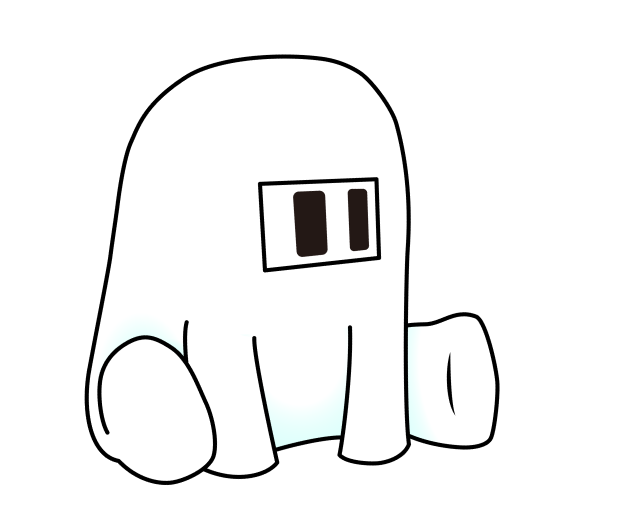
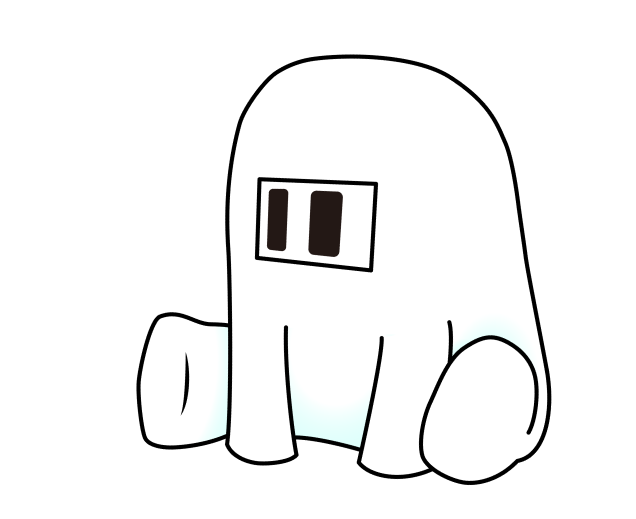
0505_進捗

diff --git a/public/css/object/project/project.css b/public/css/object/project/project.css
@@ -67,10 +67,6 @@
     margin-top: 4px;
 }
 
-.p-nav-open .p-menu span {
-    background-color: black;
-}
-
 .p-nav-open .p-menu span:nth-child(1) {
     -webkit-transform: translateY(10px) rotate(-315deg);
     transform: translateY(10px) rotate(-315deg);
@@ -269,8 +265,8 @@
 
 /* 国名一覧メニュー */
 .p-country-list-button {
-    display: inline-block;
-    margin: 100px 50% 0 50%;
+    display: flex;
+    justify-content: center;
     position: relative;
     padding: 10px 0;
 }
@@ -581,9 +577,8 @@
 .p-new-post {
     padding: 1.5% 0;
     background-color: #011627;
-    width: 100%;
-    height: auto;
     max-width: none;
+    width: 100vw;
 }
 
 .p-new-post-heading {
@@ -864,7 +859,12 @@
     margin-top: 100px;
 }
 
-.p-more-for-style {
+.p-more-for-style--right {
+    position: relative;
+    z-index: 1;
+}
+
+.p-more-for-style--left {
     position: relative;
     z-index: 0;
 }
@@ -914,7 +914,7 @@
 
 .p-more-icon {
     width: 100px;
-    height: 95px;
+    height: 100px;
     padding: 20px;
     border-radius: 50%;
     background: white;
@@ -989,7 +989,7 @@
     background-position: 0 0, 15px 15px;
     position: relative;
     z-index: 0;
-    transform: translateX(-50%) scale(-1, 1);
+    transform: translateX(-40%) scale(-1, 1);
     margin-top: -35px;
 }
 
@@ -1003,7 +1003,7 @@
     top: 15px;
     left: 0;
     z-index: -1;
-    transform: translateX(-50%) scale(-1, 1);
+    transform: translateX(-40%) scale(-1, 1);
 }
 
 @-webkit-keyframes ibou {
@@ -1035,14 +1035,13 @@
 }
 
 .ibou {
-    display: none;
     -webkit-animation: ibou 3s infinite linear alternate;
     animation: ibou 3s infinite linear alternate;
-    position: relative;
-    z-index: 2;
+    position: absolute;
+    z-index: 99;
     width: 30%;
-    right: 30%;
-    top: 10em;
+    bottom: 50px;
+    left: 350px;
 }
 
 

diff --git a/public/js/script.js b/public/js/script.js
@@ -890,27 +890,31 @@ $("#vmap").on("DOMSubtreeModified propertychange", function () {
 
 
 // バーガーメニュー
-$(document).ready(function () {
-  let $nav = $(".p-nav-area");
-  let $btn = $(".p-menu");
-  let $mask = $("#mask");
-  let open = "p-nav-open";
+document.addEventListener("DOMContentLoaded", () => {
+  const nav = document.querySelector(".p-nav-area");
+  const btn = document.querySelector(".p-menu");
+  const mask = document.getElementById("mask");
+  const links = document.querySelectorAll("#navArea a");
+  const openClass = "p-nav-open";
 
-  // menu open close
-  $btn.on("click", function () {
-    if (!$nav.hasClass(open)) {
-      $nav.addClass(open);
-    } else {
-      $nav.removeClass(open);
-    }
+  // メニューの開閉
+  btn.addEventListener("click", () => {
+    nav.classList.toggle(openClass);
+    btn.classList.toggle(openClass);
   });
 
-  // mask close
-  $mask.on("click", function () {
-    $nav.removeClass(open);
-  });
-  $('#navArea a').on('click', function () {
-    $nav.removeClass(open);
+  // マスククリックで閉じる
+  if (mask) {
+    mask.addEventListener("click", () => {
+      nav.classList.remove(openClass);
+    });
+  }
+
+  // ナビリンククリックで閉じる
+  links.forEach(link => {
+    link.addEventListener("click", () => {
+      nav.classList.remove(openClass);
+    });
   });
 });
 

diff --git a/public/top.html b/public/top.html
@@ -41,7 +41,7 @@
         </a>
       </div>
 
-      <!-- <nav class="p-nav-area">
+      <nav class="p-nav-area">
         <div class="p-nav-area__inner">
           <ul>
             <li class="p-nav-area__illust">
@@ -65,7 +65,7 @@
             </li>
           </ul>
         </div>
-      </nav> -->
+      </nav>
 
       <!-- ハンバーガーメニュー -->
       <div class="p-menu">
@@ -83,7 +83,7 @@
     <!--//ここからコンテンツ-->
 
     <!-- 国名一覧メニュー -->
-    <div class="p-country-list-button">
+    <div class="p-country-list-button u-mt-100">
       <div class="p-country-list-button--red"></div>
       <div class="p-country-list-button--white"></div>
     </div>
@@ -462,7 +462,7 @@
         </div>
 
         <div class="p-more-content">
-          <div class="p-more-for-style">
+          <div class="p-more-for-style--right">
             <div class="p-more-content__right">
               <div class="p-more-wrapper">
                 <div class="p-more-icon">
@@ -493,7 +493,7 @@
             <div class="p-more-content__right--bg"></div>
           </div>
 
-          <div class="p-more-for-style">
+          <div class="p-more-for-style--left">
             <div class="p-more-content__left">
               <img src="img/ibou.png" alt="アイボー" class="ibou">
             </div>
